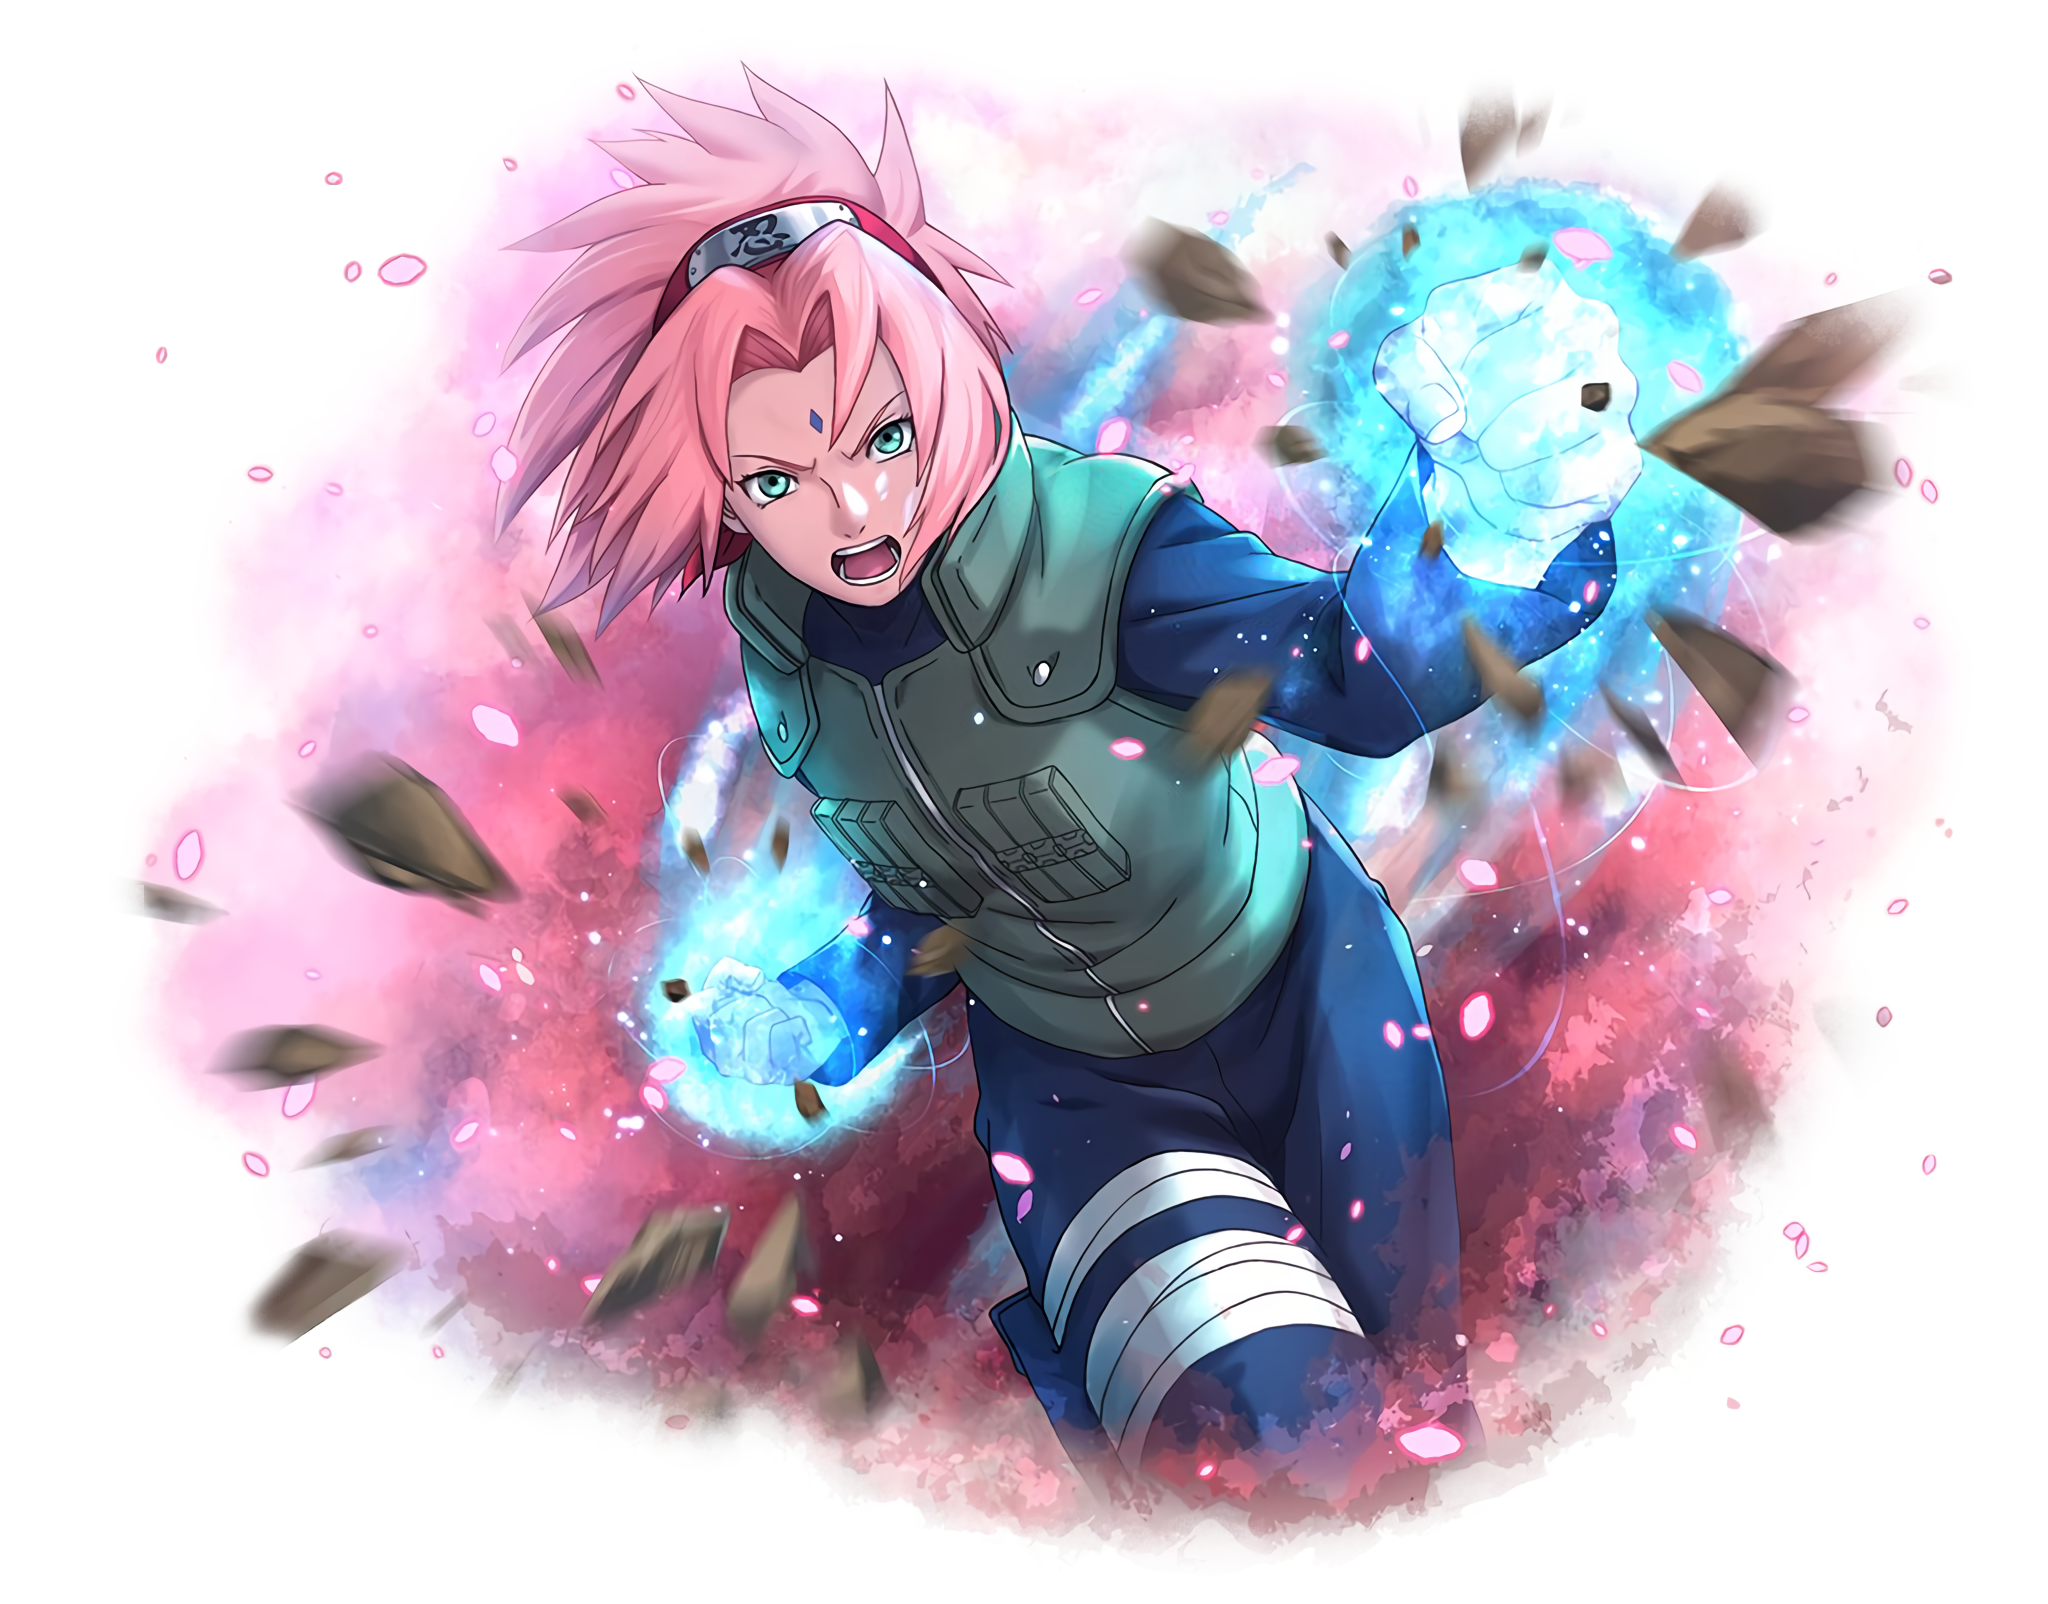
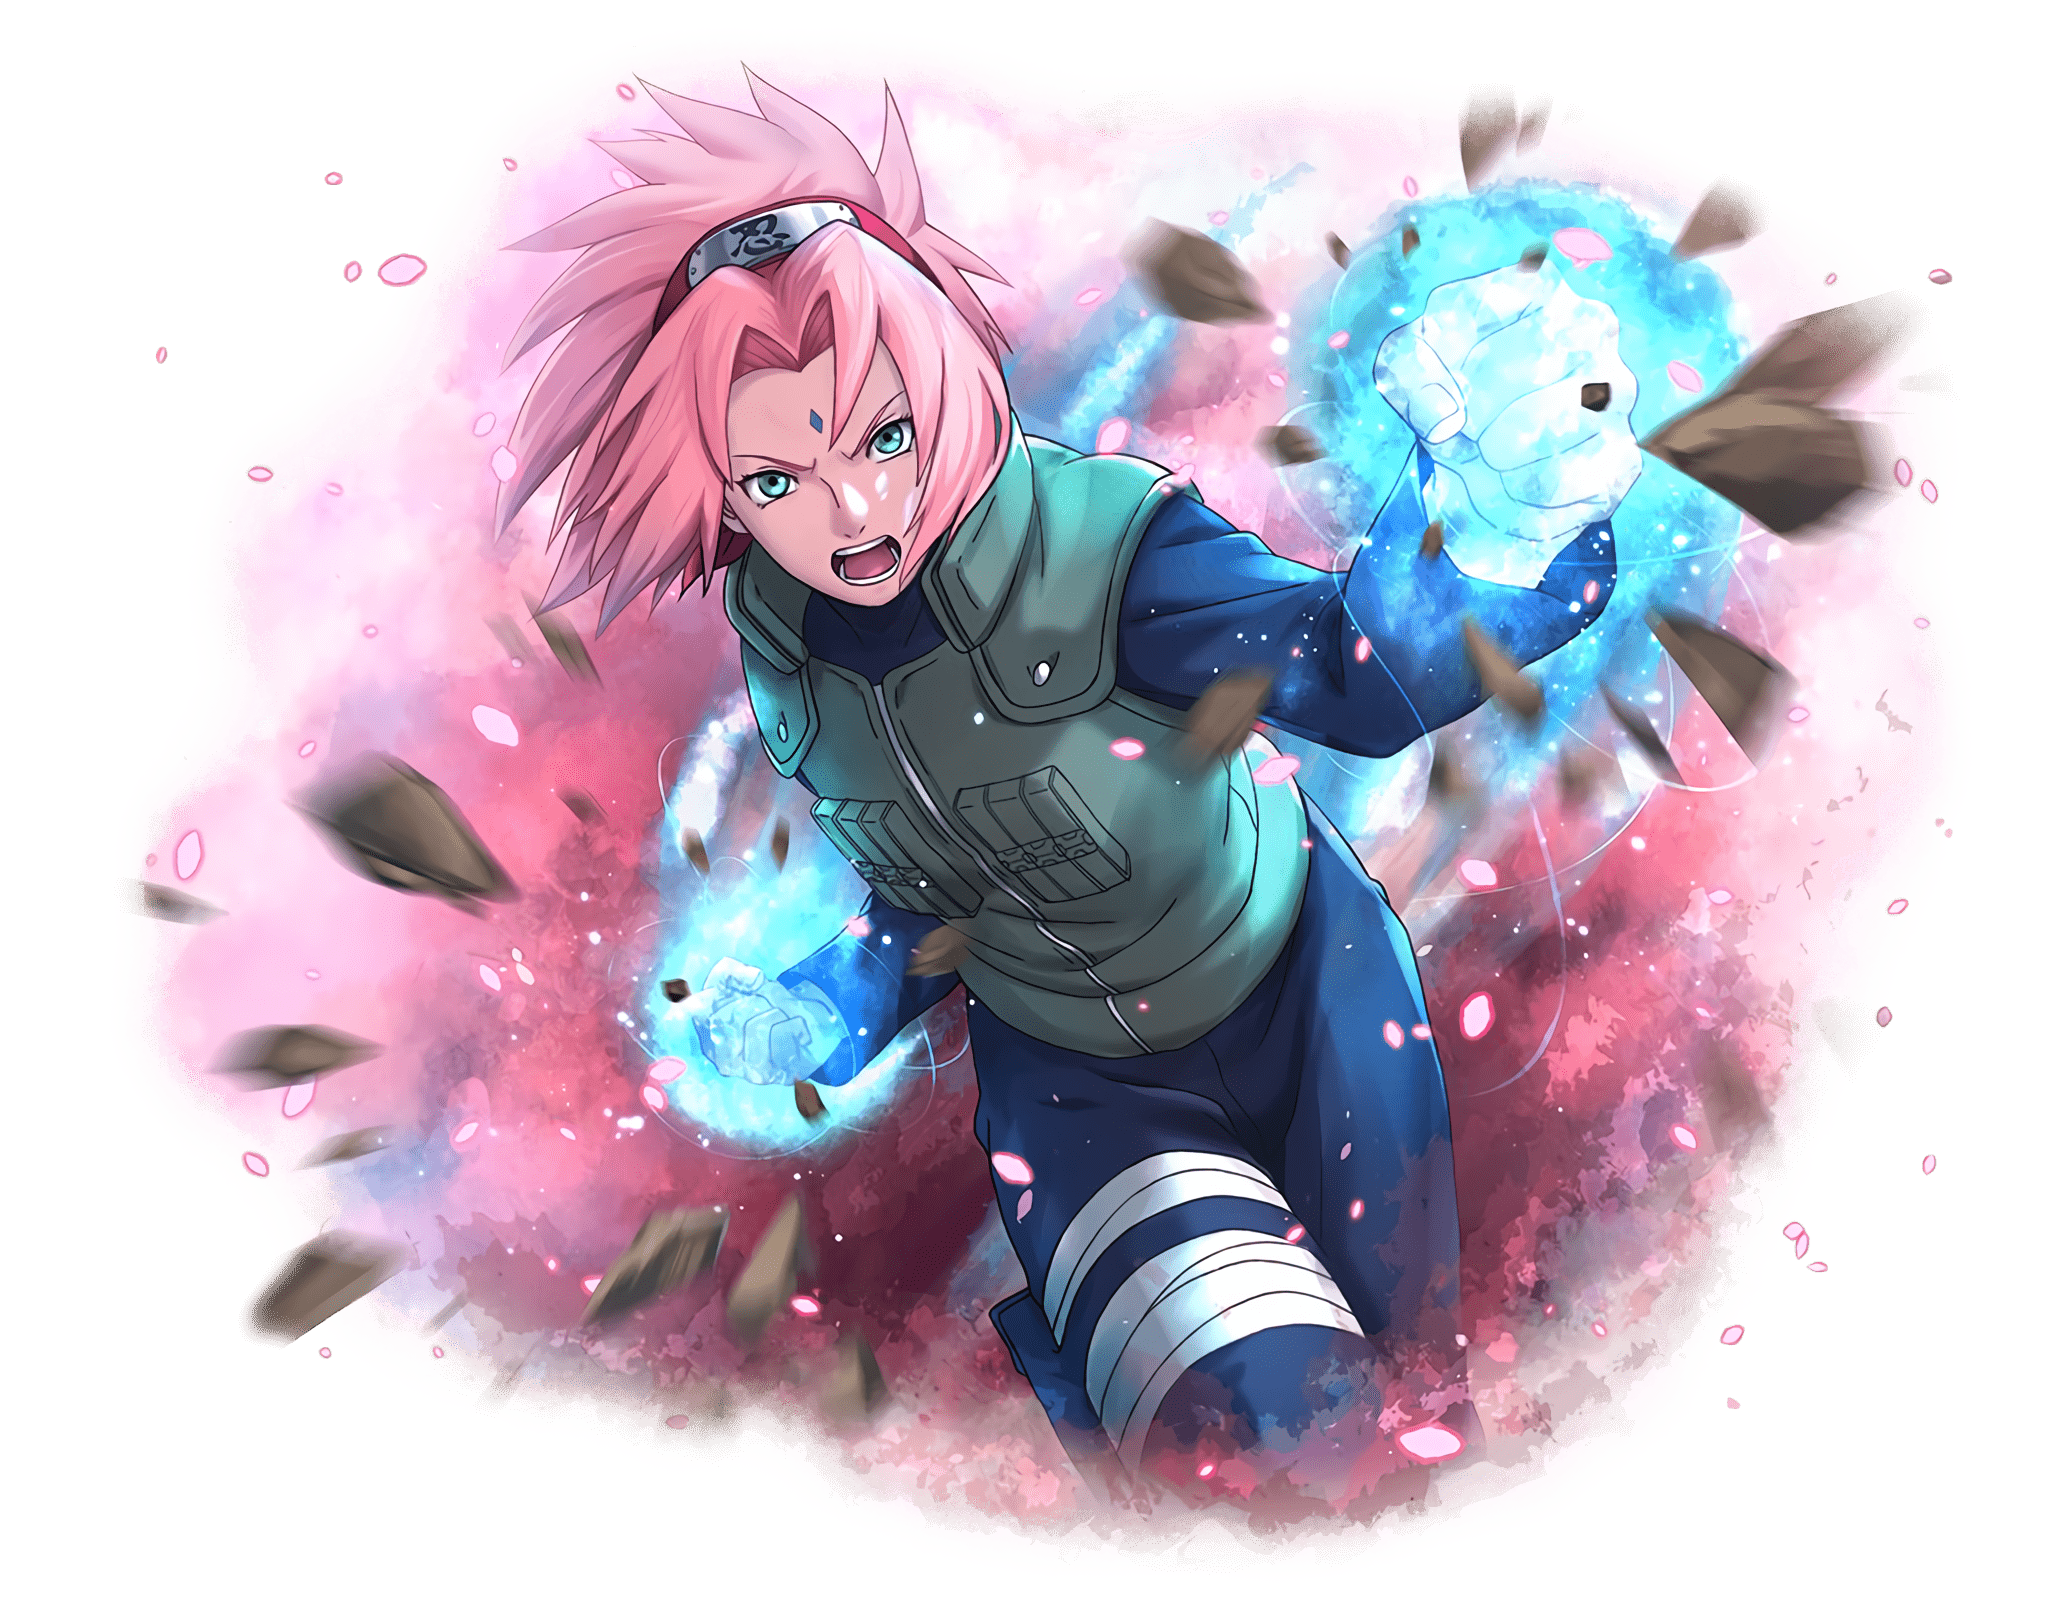
Images optimized and readme added

diff --git a/mario/index.html b/mario/index.html
@@ -9,27 +9,29 @@
     <script src="https://kit.fontawesome.com/bd8a3be228.js" crossorigin="anonymous"></script>
 </head>
 <body>
-    <button class="back-home" type="button">
-        <a href="../index.html">
-            <i class="fas fa-home"></i>
-        </a>
-    </button>
-    <div class="wrapper">
-        <div class="frame">
-            <img src="./src/img/gomba.png" alt="mario toad" class="char gomba">
-            <img src="./src/img/mario-friends.png" alt="mario toad" class="char mario-friends">
-            <img src="./src/img/mario_ody.png" alt="mario toad" class="char mario-ody">
-            <img src="./src/img/toad.png" alt="mario toad" class="char toad">
+    <div class="content">
+        <button class="back-home" type="button">
+            <a href="../index.html">
+                <i class="fas fa-home"></i>
+            </a>
+        </button>
+        <div class="wrapper">
+            <div class="frame">
+                <img src="./src/img/gomba.png" alt="mario toad" class="char gomba">
+                <img src="./src/img/mario-friends.png" alt="mario toad" class="char mario-friends">
+                <img src="./src/img/mario_ody.png" alt="mario toad" class="char mario-ody">
+                <img src="./src/img/toad.png" alt="mario toad" class="char toad">
+            </div>
+            <img src="./src/img/mario-normal.png" alt="mario normal" class="char mario-normal">
+            <img src="./src/img/bob-omb.png" alt="mario toad" class="char bob-omb">
+            <img src="./src/img/mario-yoshi.png" alt="mario toad" class="char mario-yoshi">
+            <img src="./src/img/hat-mario-ody.png" alt="mario toad" class="char hat-mario-ody">
+            <img src="./src/img/horse-fly.png" alt="mario toad" class="char horse-fly">
+            <img src="./src/img/mario-lego.png" alt="mario toad" class="char mario-lego">
+            <img src="./src/img/mario-fly.png" alt="mario toad" class="char mario-fly">
+            <img src="./src/img/mario-kart.png" alt="mario toad" class="char mario-kart">
+            <img src="./src/img/ghost.png" alt="mario toad" class="char ghost">
         </div>
-        <img src="./src/img/mario-normal.png" alt="mario normal" class="char mario-normal">
-        <img src="./src/img/bob-omb.png" alt="mario toad" class="char bob-omb">
-        <img src="./src/img/mario-yoshi.png" alt="mario toad" class="char mario-yoshi">
-        <img src="./src/img/hat-mario-ody.png" alt="mario toad" class="char hat-mario-ody">
-        <img src="./src/img/horse-fly.png" alt="mario toad" class="char horse-fly">
-        <img src="./src/img/mario-lego.png" alt="mario toad" class="char mario-lego">
-        <img src="./src/img/mario-fly.png" alt="mario toad" class="char mario-fly">
-        <img src="./src/img/mario-kart.png" alt="mario toad" class="char mario-kart">
-        <img src="./src/img/ghost.png" alt="mario toad" class="char ghost">
     </div>
 </body>
 </html>

diff --git a/edc/src/css/styles.scss b/edc/src/css/styles.scss
@@ -3,6 +3,14 @@
     padding: 0;
 }
 
+.content{
+    display: block;
+}
+
+.wrapper-background-smaller-device{
+    display: none;
+}
+
 body{
     background-image: url('../img/wall_edc_page.jpg');
     background-size: cover;
@@ -10,6 +18,7 @@ body{
     width: 100vw;
     height: 100vh;
     overflow: hidden;
+    font-family: Arial, Helvetica, sans-serif;
 
     .opacity-mask{
         position: absolute;
@@ -135,6 +144,79 @@ body{
         cursor: pointer;
         box-shadow: 0 0 10px rgb(255, 255, 255);
         background: rgb(90, 90, 90);
+    }
+}
+
+// Tablets
+@media only screen and (max-width: 768px){
+    .wrapper{
+        transform: translate(-50%, -50%);
+    }
+}
+
+@media only screen and (max-width: 425px){
+    .wrapper{
+        width: 400px;
+        height: 200px;
+
+        .edc_logo{
+            top: 10px;
+            right: 45px;
+            width: 80px;
+        }
+    }
+}
+
+
+@media only screen and (max-width: 375px){
+
+    .content{
+        display: none;
+    }
+    
+    .wrapper-background-smaller-device{
+        display: block;
+        
+        .bg-small-dev{
+            position: absolute;
+            width: 100vw;
+            height: 100vh;
+            object-fit: cover;
+            object-position: right;
+            z-index: 1;
+        }
+        &::before{
+            width: 100vw;
+            height: 100vh;
+            position: absolute;
+            top: 0;
+            left: 0;
+            content: " ";
+            background: rgba(0, 0, 0, 0.6);
+            z-index: 2;
+        }
+
+        .author{
+            text-decoration: none;
+            color: rgba(230, 228, 228, 0.541);
+            position: absolute;
+            bottom: 0.5rem;
+            font-size: .5rem;
+            text-align: center;
+            width: 100vw;
+            z-index: 3;
+        }
+
+        .msm{
+            position: absolute;
+            text-align: center;
+            color: #fff;
+            z-index: 3;
+            margin-top: 50vh;
+            padding: 1rem;
+            width: calc(100% - 2rem);
+            font-size: .9rem;
+        }
 
     }
 }

diff --git a/edc/index.html b/edc/index.html
@@ -9,20 +9,32 @@
     <script src="https://kit.fontawesome.com/bd8a3be228.js" crossorigin="anonymous"></script>
 </head>
 <body>
-    <button class="back-home" type="button">
-        <a href="../index.html">
-            <i class="fas fa-home"></i>
-        </a>
-    </button>
-    <div class="opacity-mask"></div>
-    <div class="wrapper">
-        <div class="frame">
-            <img src="./src/img/sculpture.png" alt="" class="sculpture">
+    <div class="content">
+        <button class="back-home" type="button">
+            <a href="../index.html">
+                <i class="fas fa-home"></i>
+            </a>
+        </button>
+        <div class="opacity-mask"></div>
+        <div class="wrapper">
+            <div class="frame">
+                <img src="./src/img/sculpture.png" alt="" class="sculpture">
+            </div>
+            <img src="./src/img/b&w_bubble_1.png" alt="" class="object bubble_1">
+            <img src="./src/img/b&w_bubble_2.png" alt="" class="object bubble_2">
+            <img src="./src/img/edc_log.png" alt="" class="object edc_logo">
+            <img src="./src/img/green_bubble.png" alt="" class="object green_bubble">
         </div>
-        <img src="./src/img/b&w_bubble_1.png" alt="" class="object bubble_1">
-        <img src="./src/img/b&w_bubble_2.png" alt="" class="object bubble_2">
-        <img src="./src/img/edc_log.png" alt="" class="object edc_logo">
-        <img src="./src/img/green_bubble.png" alt="" class="object green_bubble">
+    </div>
+
+    <div class="wrapper-background-smaller-device">
+        <img src="../src/img/background-small-devices.jpg" alt="freepik background" class="bg-small-dev">
+        <a href='https://www.freepik.com/vectors/background' class="author">Background vector created by freepik - www.freepik.com</a>
+        <h3 class="msm">
+            Use a larger device to see the effect
+            <br /> <br />
+            🙂
+        </h3>
     </div>
 </body>
 </html>

diff --git a/edc/src/css/styles.css b/edc/src/css/styles.css
@@ -3,6 +3,14 @@
   padding: 0;
 }
 
+.content {
+  display: block;
+}
+
+.wrapper-background-smaller-device {
+  display: none;
+}
+
 body {
   background-image: url("../img/wall_edc_page.jpg");
   background-size: cover;
@@ -10,6 +18,7 @@ body {
   width: 100vw;
   height: 100vh;
   overflow: hidden;
+  font-family: Arial, Helvetica, sans-serif;
 }
 body .opacity-mask {
   position: absolute;
@@ -118,6 +127,70 @@ body .opacity-mask {
   cursor: pointer;
   box-shadow: 0 0 10px white;
   background: #5a5a5a;
+}
+
+@media only screen and (max-width: 768px) {
+  .wrapper {
+    transform: translate(-50%, -50%);
+  }
+}
+@media only screen and (max-width: 425px) {
+  .wrapper {
+    width: 400px;
+    height: 200px;
+  }
+  .wrapper .edc_logo {
+    top: 10px;
+    right: 45px;
+    width: 80px;
+  }
+}
+@media only screen and (max-width: 375px) {
+  .content {
+    display: none;
+  }
+
+  .wrapper-background-smaller-device {
+    display: block;
+  }
+  .wrapper-background-smaller-device .bg-small-dev {
+    position: absolute;
+    width: 100vw;
+    height: 100vh;
+    object-fit: cover;
+    object-position: right;
+    z-index: 1;
+  }
+  .wrapper-background-smaller-device::before {
+    width: 100vw;
+    height: 100vh;
+    position: absolute;
+    top: 0;
+    left: 0;
+    content: " ";
+    background: rgba(0, 0, 0, 0.6);
+    z-index: 2;
+  }
+  .wrapper-background-smaller-device .author {
+    text-decoration: none;
+    color: rgba(230, 228, 228, 0.541);
+    position: absolute;
+    bottom: 0.5rem;
+    font-size: 0.5rem;
+    text-align: center;
+    width: 100vw;
+    z-index: 3;
+  }
+  .wrapper-background-smaller-device .msm {
+    position: absolute;
+    text-align: center;
+    color: #fff;
+    z-index: 3;
+    margin-top: 50vh;
+    padding: 1rem;
+    width: calc(100% - 2rem);
+    font-size: 0.9rem;
+  }
 }
 
 /*# sourceMappingURL=styles.css.map */

diff --git a/readme.md b/readme.md
@@ -1,0 +1,21 @@
+## 🙌 Hi Coders!
+
+This project is an experiment that uses CSS3 perspective. With this we can create amazing effects, here you could find three examples.
+
+## 👉 Technologies
+
+- 🌀 HTML 5
+- 🌀 Sass - CSS3
+
+## 👉 Link
+
+You can check in live demo here,
+**It is recommendable use a Laptop or large device to get a best experience, this is temporal**:
+
+
+[website](https://carlosleoncode.github.io/perspetive_fx/)
+
+## License
+[MIT](https://choosealicense.com/licenses/mit/)
+
+👨💻 🎼🎼🎼
